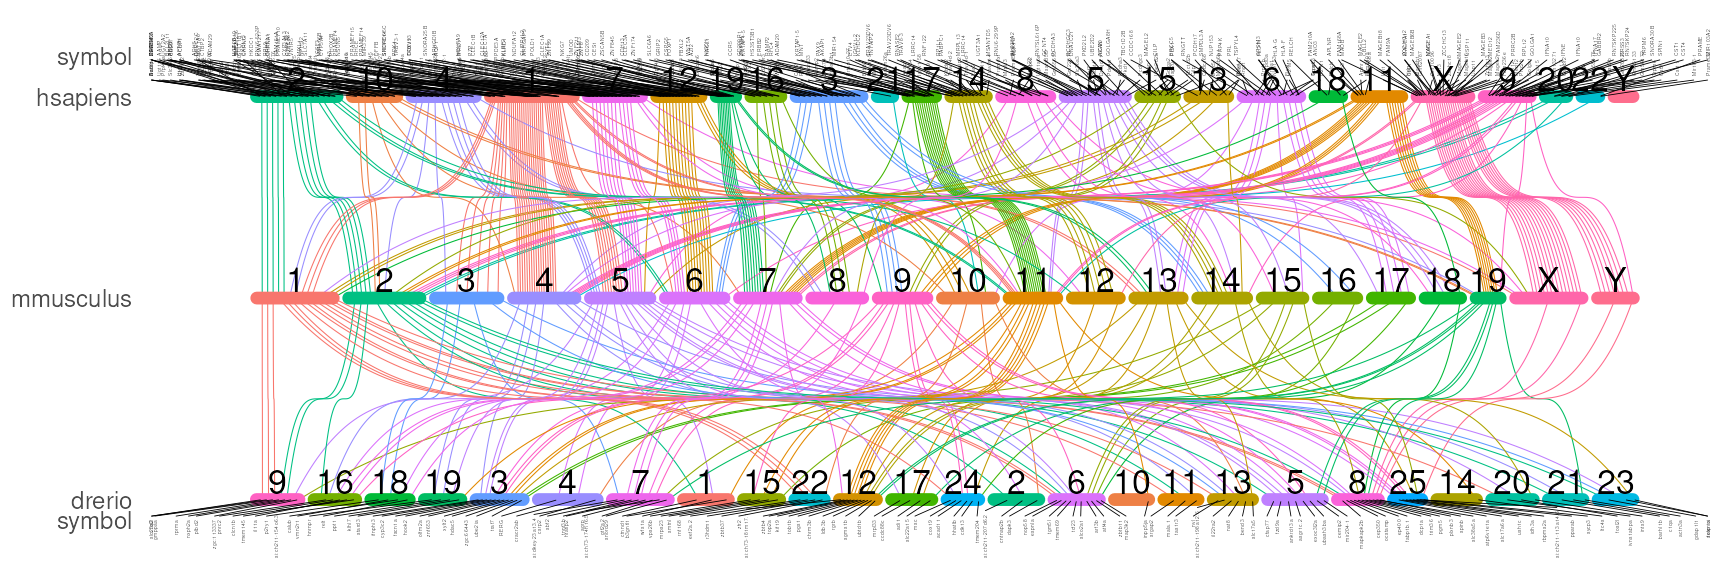
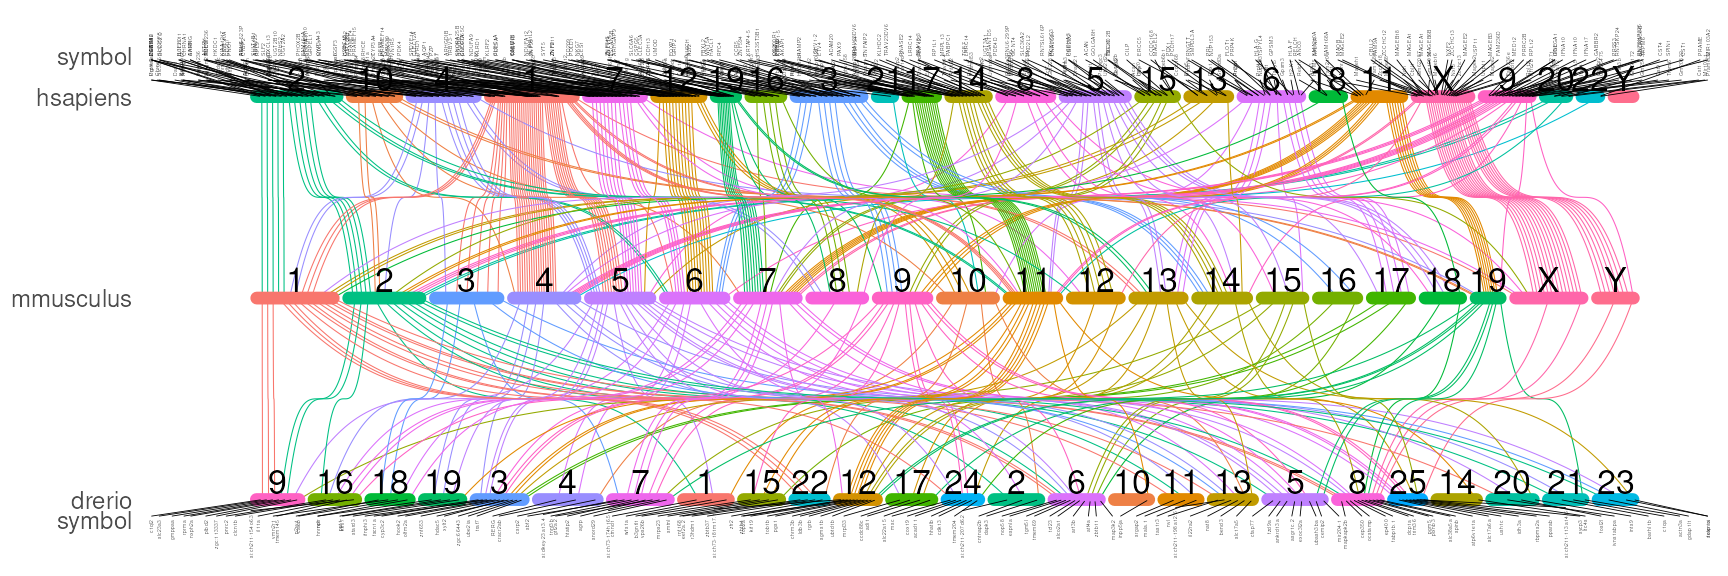
Deploying to gh-pages from @ jianhong/orthoRibbon@f063153887710ce4d5ffd83abd8a53e2d31a018c 🚀

Changed region(s): [[0.0625, 0.0312, 1.0, 0.1875], [0.0625, 0.8438, 0.9688, 0.9375]]

diff --git a/articles/orthoRibbon.html b/articles/orthoRibbon.html
@@ -32,7 +32,7 @@
       </button>
       <span class="navbar-brand">
         <a class="navbar-link" href="../index.html">orthoRibbon</a>
-        <span class="version label label-default" data-toggle="tooltip" data-placement="bottom" title="">0.1.2</span>
+        <span class="version label label-default" data-toggle="tooltip" data-placement="bottom" title="">0.1.3</span>
       </span>
     </div>
 
@@ -232,7 +232,7 @@ orders.</p>
 <span><span class="va">chr_order_dist</span> <span class="op">&lt;-</span> <span class="fu"><a href="../reference/buildPlotData.html">buildPlotData</a></span><span class="op">(</span><span class="va">com_name</span>, <span class="va">homologs_df</span>, <span class="va">genes_gr</span>, <span class="va">chrom_infos</span>,</span>
 <span>                          chromosome_order_method <span class="op">=</span> <span class="st">"spearman"</span><span class="op">)</span></span>
 <span></span>
-<span><span class="co"># 5. customized</span></span>
+<span><span class="co"># 6. customized</span></span>
 <span><span class="va">seq_names</span> <span class="op">&lt;-</span> <span class="fu"><a href="https://rdrr.io/pkg/BiocGenerics/man/lapply.html" class="external-link">lapply</a></span><span class="op">(</span><span class="va">chrom_infos</span>, <span class="kw">function</span><span class="op">(</span><span class="va">.ele</span><span class="op">)</span> <span class="fu"><a href="https://rdrr.io/pkg/Seqinfo/man/sortSeqlevels.html" class="external-link">sortSeqlevels</a></span><span class="op">(</span><span class="va">.ele</span><span class="op">$</span><span class="va">name</span><span class="op">)</span><span class="op">)</span></span>
 <span><span class="va">chr_order_manu</span> <span class="op">&lt;-</span> <span class="fu"><a href="../reference/buildPlotData.html">buildPlotData</a></span><span class="op">(</span><span class="va">com_name</span>, <span class="va">homologs_df</span>, <span class="va">genes_gr</span>, <span class="va">chrom_infos</span>,</span>
 <span>                                chr_orders<span class="op">=</span><span class="va">seq_names</span><span class="op">)</span></span></code></pre></div>
@@ -286,6 +286,12 @@ chromosome names of the gene.</p>
 <div class="section level2">
 <h2 id="start-from-the-ortholog-groups-information">Start from the ortholog groups information<a class="anchor" aria-label="anchor" href="#start-from-the-ortholog-groups-information"></a>
 </h2>
+<p>Another OrthoRibbon supported workflow starts from ortholog group
+information, where each group contains genes from different species that
+are inferred to be orthologous. The following examples demonstrate how
+to generate ribbon diagrams using ortholog groups by retrieving the
+corresponding gene annotations and genomic coordinates for
+visualization.</p>
 <p>First we prepare the species abbreviation.</p>
 <div class="sourceCode" id="cb21"><pre class="downlit sourceCode r">
 <code class="sourceCode R"><span><span class="va">com_name</span> <span class="op">&lt;-</span> <span class="fu"><a href="https://rdrr.io/r/base/c.html" class="external-link">c</a></span><span class="op">(</span><span class="st">'hsapiens'</span>, <span class="st">'dmelanogaster'</span><span class="op">)</span></span>
@@ -303,18 +309,26 @@ tools like <a href="https://github.com/OrthoFinder/OrthoFinder" class="external-
 <span><span class="co">## 1 KI270510.1   2415     scaffold chrUn_KI....     TRUE   FALSE       NA</span></span>
 <span><span class="co">## 2 KI270539.1    993     scaffold chrUn_KI....     TRUE   FALSE       NA</span></span></code></pre>
 <div class="sourceCode" id="cb26"><pre class="downlit sourceCode r">
-<code class="sourceCode R"><span><span class="va">homologs_df</span> <span class="op">&lt;-</span> <span class="fu"><a href="https://rdrr.io/r/base/readRDS.html" class="external-link">readRDS</a></span><span class="op">(</span><span class="fu"><a href="https://rdrr.io/r/base/file.path.html" class="external-link">file.path</a></span><span class="op">(</span><span class="va">extdata</span>, <span class="st">'human_fly/homologs_df.rds'</span><span class="op">)</span><span class="op">)</span></span>
+<code class="sourceCode R"><span><span class="co">## the homologs_df must contain columns 'gene_id', and 'ortholog_group'.</span></span>
+<span><span class="va">homologs_df</span> <span class="op">&lt;-</span> <span class="fu"><a href="https://rdrr.io/r/base/readRDS.html" class="external-link">readRDS</a></span><span class="op">(</span><span class="fu"><a href="https://rdrr.io/r/base/file.path.html" class="external-link">file.path</a></span><span class="op">(</span><span class="va">extdata</span>, <span class="st">'human_fly/homologs_df.rds'</span><span class="op">)</span><span class="op">)</span></span>
 <span><span class="fu"><a href="https://rdrr.io/r/utils/head.html" class="external-link">head</a></span><span class="op">(</span><span class="va">homologs_df</span>, n<span class="op">=</span><span class="fl">2</span><span class="op">)</span></span></code></pre></div>
 <pre><code><span><span class="co">##           gene_id ortholog_group symbol  species seq    start</span></span>
 <span><span class="co">## 1 ENSG00000028277              1 POU2F2 hsapiens  19 42086110</span></span>
 <span><span class="co">## 2 ENSG00000064835              1 POU1F1 hsapiens   3 87259404</span></span></code></pre>
-<p>Last, plot the data.</p>
+<p>Finally, prepare the plotting data and generate the ribbon
+diagram.</p>
+<p>If the <code>homologs_df</code> data frame already contains gene
+location information (specifically, the “species”, “seq”, and “start”
+columns), the <code>genes_gr</code> argument can be omitted. Otherwise,
+gene annotations must be provided via the <code>genes_gr</code> argument
+as a <code>GRanges</code> object, with “gene_name” and “species” stored
+as metadata columns.</p>
 <div class="sourceCode" id="cb28"><pre class="downlit sourceCode r">
 <code class="sourceCode R"><span><span class="va">plotData</span> <span class="op">&lt;-</span> <span class="fu"><a href="../reference/buildPlotData.html">buildPlotData</a></span><span class="op">(</span><span class="va">com_name</span>, <span class="va">homologs_df</span>,</span>
 <span>                          chrom_infos <span class="op">=</span> <span class="va">chrom_infos</span>,</span>
 <span>                          chromosome_order_method <span class="op">=</span> <span class="st">'max'</span>,</span>
 <span>                          max_links<span class="op">=</span><span class="fl">1000</span><span class="op">)</span></span>
-<span></span>
+<span> </span>
 <span><span class="va">bezier_mini</span> <span class="op">&lt;-</span> <span class="fu"><a href="../reference/buildBezierDF.html">buildBezierDF</a></span><span class="op">(</span><span class="va">plotData</span><span class="op">$</span><span class="va">homolog_df_list</span>,</span>
 <span>                             colname1<span class="op">=</span><span class="st">'topMini_finalOffset'</span>,</span>
 <span>                             colname2<span class="op">=</span><span class="st">'bottomMini_finalOffset'</span><span class="op">)</span></span>
@@ -354,7 +368,7 @@ tools like <a href="https://github.com/OrthoFinder/OrthoFinder" class="external-
 <span><span class="co">## [1] GenomeInfoDb_1.49.1       Seqinfo_1.3.0            </span></span>
 <span><span class="co">## [3] IRanges_2.47.2            S4Vectors_0.51.6         </span></span>
 <span><span class="co">## [5] BiocGenerics_0.59.11      generics_0.1.4           </span></span>
-<span><span class="co">## [7] geneClusterPattern_0.99.0 orthoRibbon_0.1.2        </span></span>
+<span><span class="co">## [7] geneClusterPattern_0.99.0 orthoRibbon_0.1.3        </span></span>
 <span><span class="co">## </span></span>
 <span><span class="co">## loaded via a namespace (and not attached):</span></span>
 <span><span class="co">##   [1] BiocIO_1.23.3               bitops_1.1-0               </span></span>

diff --git a/authors.html b/authors.html
@@ -17,7 +17,7 @@
       </button>
       <span class="navbar-brand">
         <a class="navbar-link" href="index.html">orthoRibbon</a>
-        <span class="version label label-default" data-toggle="tooltip" data-placement="bottom" title="">0.1.2</span>
+        <span class="version label label-default" data-toggle="tooltip" data-placement="bottom" title="">0.1.3</span>
       </span>
     </div>
 
@@ -67,13 +67,13 @@
 
     <p>Ou J, Poss K (2026).
 <em>orthoRibbon: Ribbon-Diagram Visualization of Orthologous Genes Across Species</em>.
-R package version 0.1.2, <a href="https://github.com/jianhong/orthoRibbon" class="external-link">https://github.com/jianhong/orthoRibbon</a>.
+R package version 0.1.3, <a href="https://github.com/jianhong/orthoRibbon" class="external-link">https://github.com/jianhong/orthoRibbon</a>.
 </p>
     <pre>@Manual{,
   title = {orthoRibbon: Ribbon-Diagram Visualization of Orthologous Genes Across Species},
   author = {Jianhong Ou and Kenneth Poss},
   year = {2026},
-  note = {R package version 0.1.2},
+  note = {R package version 0.1.3},
   url = {https://github.com/jianhong/orthoRibbon},
 }</pre>
 

diff --git a/reference/buildPlotData.html b/reference/buildPlotData.html
@@ -18,7 +18,7 @@ informations."><meta property="og:image" content="/logo.png"><!-- mathjax --><sc
       </button>
       <span class="navbar-brand">
         <a class="navbar-link" href="../index.html">orthoRibbon</a>
-        <span class="version label label-default" data-toggle="tooltip" data-placement="bottom" title="">0.1.2</span>
+        <span class="version label label-default" data-toggle="tooltip" data-placement="bottom" title="">0.1.3</span>
       </span>
     </div>
 

diff --git a/reference/getChrOrders.html b/reference/getChrOrders.html
@@ -18,7 +18,7 @@ The distance matrix among chromosomes are the count of the homologous"><meta pro
       </button>
       <span class="navbar-brand">
         <a class="navbar-link" href="../index.html">orthoRibbon</a>
-        <span class="version label label-default" data-toggle="tooltip" data-placement="bottom" title="">0.1.2</span>
+        <span class="version label label-default" data-toggle="tooltip" data-placement="bottom" title="">0.1.3</span>
       </span>
     </div>
 

diff --git a/reference/get_unique_max_rows.html b/reference/get_unique_max_rows.html
@@ -18,7 +18,7 @@ Greedy approach: process columns by their max value (highest first)"><meta prope
       </button>
       <span class="navbar-brand">
         <a class="navbar-link" href="../index.html">orthoRibbon</a>
-        <span class="version label label-default" data-toggle="tooltip" data-placement="bottom" title="">0.1.2</span>
+        <span class="version label label-default" data-toggle="tooltip" data-placement="bottom" title="">0.1.3</span>
       </span>
     </div>
 

diff --git a/articles/index.html b/articles/index.html
@@ -17,7 +17,7 @@
       </button>
       <span class="navbar-brand">
         <a class="navbar-link" href="../index.html">orthoRibbon</a>
-        <span class="version label label-default" data-toggle="tooltip" data-placement="bottom" title="">0.1.2</span>
+        <span class="version label label-default" data-toggle="tooltip" data-placement="bottom" title="">0.1.3</span>
       </span>
     </div>
 

diff --git a/reference/addGeneInfo.html b/reference/addGeneInfo.html
@@ -17,7 +17,7 @@
       </button>
       <span class="navbar-brand">
         <a class="navbar-link" href="../index.html">orthoRibbon</a>
-        <span class="version label label-default" data-toggle="tooltip" data-placement="bottom" title="">0.1.2</span>
+        <span class="version label label-default" data-toggle="tooltip" data-placement="bottom" title="">0.1.3</span>
       </span>
     </div>
 

diff --git a/reference/add_coord.html b/reference/add_coord.html
@@ -17,7 +17,7 @@
       </button>
       <span class="navbar-brand">
         <a class="navbar-link" href="../index.html">orthoRibbon</a>
-        <span class="version label label-default" data-toggle="tooltip" data-placement="bottom" title="">0.1.2</span>
+        <span class="version label label-default" data-toggle="tooltip" data-placement="bottom" title="">0.1.3</span>
       </span>
     </div>
 

diff --git a/reference/buildBezierDF.html b/reference/buildBezierDF.html
@@ -17,7 +17,7 @@
       </button>
       <span class="navbar-brand">
         <a class="navbar-link" href="../index.html">orthoRibbon</a>
-        <span class="version label label-default" data-toggle="tooltip" data-placement="bottom" title="">0.1.2</span>
+        <span class="version label label-default" data-toggle="tooltip" data-placement="bottom" title="">0.1.3</span>
       </span>
     </div>
 

diff --git a/reference/buildChromDF.html b/reference/buildChromDF.html
@@ -17,7 +17,7 @@
       </button>
       <span class="navbar-brand">
         <a class="navbar-link" href="../index.html">orthoRibbon</a>
-        <span class="version label label-default" data-toggle="tooltip" data-placement="bottom" title="">0.1.2</span>
+        <span class="version label label-default" data-toggle="tooltip" data-placement="bottom" title="">0.1.3</span>
       </span>
     </div>
 

diff --git a/reference/buildHomologLinksDF.html b/reference/buildHomologLinksDF.html
@@ -17,7 +17,7 @@
       </button>
       <span class="navbar-brand">
         <a class="navbar-link" href="../index.html">orthoRibbon</a>
-        <span class="version label label-default" data-toggle="tooltip" data-placement="bottom" title="">0.1.2</span>
+        <span class="version label label-default" data-toggle="tooltip" data-placement="bottom" title="">0.1.3</span>
       </span>
     </div>
 

diff --git a/reference/filterChrom.html b/reference/filterChrom.html
@@ -17,7 +17,7 @@
       </button>
       <span class="navbar-brand">
         <a class="navbar-link" href="../index.html">orthoRibbon</a>
-        <span class="version label label-default" data-toggle="tooltip" data-placement="bottom" title="">0.1.2</span>
+        <span class="version label label-default" data-toggle="tooltip" data-placement="bottom" title="">0.1.3</span>
       </span>
     </div>
 
